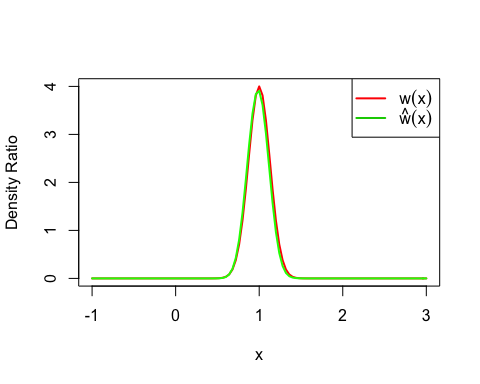
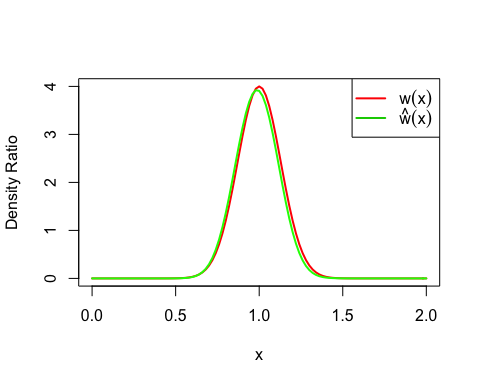
refine README

diff --git a/README.md b/README.md
@@ -2,7 +2,7 @@
 
 # An R Package for Density Ratio Estimation
 
-#### *Koji MAKIYAMA (@hoxo\_m)*
+#### *Koji MAKIYAMA (@hoxo-m)*
 
 <!-- badges: start -->
 
@@ -21,8 +21,8 @@ Thanks\!](https://img.shields.io/badge/Say%20Thanks-!-1EAEDB.svg)](https://sayth
 ## 1\. Overview
 
 **Density ratio estimation** is described as follows: for given two data
-samples `x` and `y` from unknown distributions `p(x)` and `q(y)`
-respectively, estimate `w(x) = p(x) / q(x)`, where `x` and `y` are
+samples `x1` and `x2` from unknown distributions `p(x)` and `q(x)`
+respectively, estimate `w(x) = p(x) / q(x)`, where `x1` and `x2` are
 d-dimensional real numbers.
 
 The estimated density ratio function `w(x)` can be used in many
@@ -31,30 +31,28 @@ applications such as **anomaly detection** \[Hido et al. 2011\],
 adaptation** \[Sugiyama et al. 2007\]. Other useful applications about
 density ratio estimation were summarized by \[Sugiyama et al. 2012\].
 
-The package **densratio** provides a function `densratio()`. The
-function outputs an object that has a function to estimate density
-ratio.
+The package **densratio** provides a function `densratio()` that returns
+an object with a method to estimate density ratio as
+`compute_density_ratio()`.
 
 For example,
 
 ``` r
 set.seed(3)
-x <- rnorm(200, mean = 1, sd = 1/8)
-y <- rnorm(200, mean = 1, sd = 1/2)
+x1 <- rnorm(200, mean = 1, sd = 1/8)
+x2 <- rnorm(200, mean = 1, sd = 1/2)
 
 library(densratio)
-result <- densratio(x, y)
+densratio_obj <- densratio(x1, x2)
 ```
 
-The function `densratio()` estimates the density ratio of `p(x)` to
-`q(y)`, `w(x) = p(x)/q(y) = Norm(1, 1/8) / Norm(1, 1/2)`, and provides a
-function to compute estimated density ratio. The result object has a
-function `compute_density_ratio()` that can compute the estimated
-density ratio `w_hat(x)` for any d-dimensional input `x` (now d=1).
+The densratio object has a function `compute_density_ratio()` that can
+compute the estimated density ratio `w_hat(x)` for any d-dimensional
+input `x` (now d=1).
 
 ``` r
-new_x <- seq(0, 2, by = 0.06)
-w_hat <- result$compute_density_ratio(new_x)
+new_x <- seq(0, 2, by = 0.03)
+w_hat <- densratio_obj$compute_density_ratio(new_x)
 
 plot(new_x, w_hat, pch=19)
 ```
@@ -62,14 +60,14 @@ plot(new_x, w_hat, pch=19)
 ![](man/figures/README-compute-estimated-density-ratio-1.png)<!-- -->
 
 In this case, the true density ratio `w(x) = p(x)/q(y) = Norm(1, 1/8) /
-Norm(1, 1/2)` can be computed precisely. So we can compare `w(x)` with
-the estimated density ratio `w_hat(x)`.
+Norm(1, 1/2)` is known. So we can compare `w(x)` with the estimated
+density ratio `w-hat(x)`.
 
 ``` r
 true_density_ratio <- function(x) dnorm(x, 1, 1/8) / dnorm(x, 1, 1/2)
 
-plot(true_density_ratio, xlim=c(-1, 3), lwd=2, col="red", xlab = "x", ylab = "Density Ratio")
-plot(result$compute_density_ratio, xlim=c(-1, 3), lwd=2, col="green", add=TRUE)
+plot(true_density_ratio, xlim=c(0, 2), lwd=2, col="red", xlab = "x", ylab = "Density Ratio")
+plot(densratio_obj$compute_density_ratio, xlim=c(0, 2), lwd=2, col="green", add=TRUE)
 legend("topright", legend=c(expression(w(x)), expression(hat(w)(x))), col=2:3, lty=1, lwd=2, pch=NA)
 ```
 
@@ -88,8 +86,8 @@ You can also install the package from
 [GitHub](https://github.com/hoxo-m/densratio).
 
 ``` r
-install.packages("devtools") # if you have not installed "devtools" package
-devtools::install_github("hoxo-m/densratio")
+install.packages("remotes") # if you have not installed "remotes" package
+remotes::install_github("hoxo-m/densratio")
 ```
 
 The source code for **densratio** package is available on GitHub at
@@ -98,6 +96,36 @@ The source code for **densratio** package is available on GitHub at
 
 ## 3\. Details
 
+### 3.1 Basics
+
+The package provides `densratio()`. The function returns an object that
+has a function to compute estimated density ratio.
+
+For data samples `x1` and `x2`,
+
+``` r
+set.seed(3)
+x1 <- rnorm(200, mean = 1, sd = 1/8)
+x2 <- rnorm(200, mean = 1, sd = 1/2)
+
+library(densratio)
+densratio_obj <- densratio(x1, x2)
+```
+
+In this case, `densratio_obj$compute_density_ratio()` can compute
+estimated density ratio.
+
+``` r
+new_x <- seq(0, 2, by = 0.03)
+w_hat <- densratio_obj$compute_density_ratio(new_x)
+
+plot(new_x, w_hat, pch=19)
+```
+
+![](man/figures/README-basics-compute-estimated-density-ratio-1.png)<!-- -->
+
+### 3.2 Methods
+
 `densratio()` has `method` argument that you can pass `"uLSIF"`,
 `"RuSLIF"`, or `"KLIEP"`.
 
@@ -105,39 +133,142 @@ The source code for **densratio** package is available on GitHub at
     default method. This algorithm estimates density ratio by minimizing
     the squared loss. You can find more information in \[Kanamori et
     al. 2009\] and \[Hido et al. 2011\].
-
   - **RuLSIF** (Relative unconstrained Least-Squares Importance
     Fitting). This algorithm estimates relative density ratio by
     minimizing the squared loss. You can find more information in
     \[Yamada et al. 2011\] and \[Liu et al. 2013\].
-
   - **KLIEP** (Kullback-Leibler Importance Estimation Procedure). This
     algorithm estimates density ratio by minimizing Kullback-Leibler
     divergence. You can find more information in \[Sugiyama et
     al. 2007\].
 
-There is a vignette for the package. For more detail, read it.
+The methods assume that density ratio are represented by linear model:
+
+  - `w(x) = theta_1 * K(x, c_1) + theta_2 * K(x, c_2) + ... + theta_b *
+    K(x, c_b)`
+
+where
+
+  - `K(x, c) = exp(-||x - c||^2 / 2 * sigma^2)`
+
+is the Gaussian (RBF) kernel.
+
+`densratio()` performs the following:
+
+  - Decides kernel parameter `sigma` by cross-validation,
+  - Optimizes the kernel weights `theta` (in other words, find the
+    optimal coefficients of the linear model), and
+  - The parameters `sigma` and `theta` are saved into `densratio`
+    object, and are used when to compute density ratio in the call
+    `compute_density_ratio()`.
+
+### 3.3 Result and Arguments
+
+`densratio()` outputs the result like as follows:
+
+    #> 
+    #> Call:
+    #> densratio(x = x1, y = x2, method = "uLSIF")
+    #> 
+    #> Kernel Information:
+    #>   Kernel type:  Gaussian 
+    #>   Number of kernels:  100 
+    #>   Bandwidth(sigma):  0.1 
+    #>   Centers:  num [1:100, 1] 0.907 1.093 1.18 1.136 1.046 ...
+    #> 
+    #> Kernel Weights:
+    #>   num [1:100] 0.067455 0.040045 0.000459 0.016849 0.067084 ...
+    #> 
+    #> Regularization Parameter (lambda):  1 
+    #> 
+    #> Function to Estimate Density Ratio:
+    #>   compute_density_ratio()
+
+  - **Kernel type** is fixed as Gaussian.
+  - **Number of kernels** is the number of kernels in the linear model.
+    You can change by setting `kernel_num` argument. In default,
+    `kernel_num = 100`.
+  - **Bandwidth (sigma)** is the Gaussian kernel bandwidth. In default,
+    `sigma = "auto"`, the algorithm automatically select an optimal
+    value by cross validation. If you set `sigma` a number, that will be
+    used. If you set `sigma` a numeric vector, the algorithm select an
+    optimal value in them by cross validation.
+  - **Centers** are centers of Gaussian kernels in the linear model.
+    These are selected at random from the data sample `x1` underlying a
+    numerator distribution `p(x)`. You can find the whole values in
+    `result$kernel_info$centers`.
+  - **Kernel Weights** are `theta` parameters in the linear kernel
+    model. You can find these values in `result$kernel_weights`.
+  - **Function to Estimate Density Ratio** is named
+    `compute_density_ratio()`.
+
+## 4\. Multi Dimensional Data Samples
+
+So far, the input data samples `x1` and `x2` were one dimensional.
+`densratio()` allows to input multidimensional data samples as `matrix`,
+as long as their dimensions are the same.
+
+For example,
 
 ``` r
-vignette("densratio")
+library(densratio)
+library(mvtnorm)
+
+set.seed(3)
+x1 <- rmvnorm(300, mean = c(1, 1), sigma = diag(1/8, 2))
+x2 <- rmvnorm(300, mean = c(1, 1), sigma = diag(1/2, 2))
+
+densratio_obj_2d <- densratio(x1, x2)
+densratio_obj_2d
+#> 
+#> Call:
+#> densratio(x = x1, y = x2, method = "uLSIF")
+#> 
+#> Kernel Information:
+#>   Kernel type:  Gaussian 
+#>   Number of kernels:  100 
+#>   Bandwidth(sigma):  0.316 
+#>   Centers:  num [1:100, 1:2] 1.257 0.758 1.122 1.3 1.386 ...
+#> 
+#> Kernel Weights:
+#>   num [1:100] 0.0756 0.0986 0.059 0.0797 0.0421 ...
+#> 
+#> Regularization Parameter (lambda):  0.3162278 
+#> 
+#> Function to Estimate Density Ratio:
+#>   compute_density_ratio()
 ```
 
-You can also find it on CRAN.
+In this case, as well, we can compare the true density ratio with the
+estimated density ratio.
 
-  - [An R Package for Density Ratio
-    Estimation](https://CRAN.R-project.org/package=densratio/vignettes/densratio.html)
+``` r
+true_density_ratio <- function(x) {
+  dmvnorm(x, mean = c(1, 1), sigma = diag(1/8, 2)) /
+    dmvnorm(x, mean = c(1, 1), sigma = diag(1/2, 2))
+}
 
-## 4\. Related work
+N <- 20
+range <- seq(0, 2, length.out = N)
+input <- expand.grid(range, range)
+w_true <- matrix(true_density_ratio(input), nrow = N)
+w_hat <- matrix(densratio_obj_2d$compute_density_ratio(input), nrow = N)
 
-We have also developed a Python package for density ratio estimation.
+par(mfrow = c(1, 2))
+contour(range, range, w_true, main = "True Density Ratio")
+contour(range, range, w_hat, main = "Estimated Density Ratio")
+```
 
-  - <https://github.com/hoxo-m/densratio_py>
+![](man/figures/README-compare-2d-1.png)<!-- -->
 
-The package is available on PyPI (Python Package Index).
+## 5\. Related work
 
-  - <https://pypi.python.org/pypi/densratio>
+  - A Python Package for Density Ratio Estimation
+      - <https://pypi.org/project/densratio/>
+  - APPEstimation: Adjusted Prediction Model Performance Estimation
+      - <https://cran.r-project.org/package=APPEstimation>
 
-## 5\. References
+## References
 
   - Hido, S., Y. Tsuboi, H. Kashima, M. Sugiyama, and T. Kanamori.
     **Statistical outlier detection using direct density ratio
